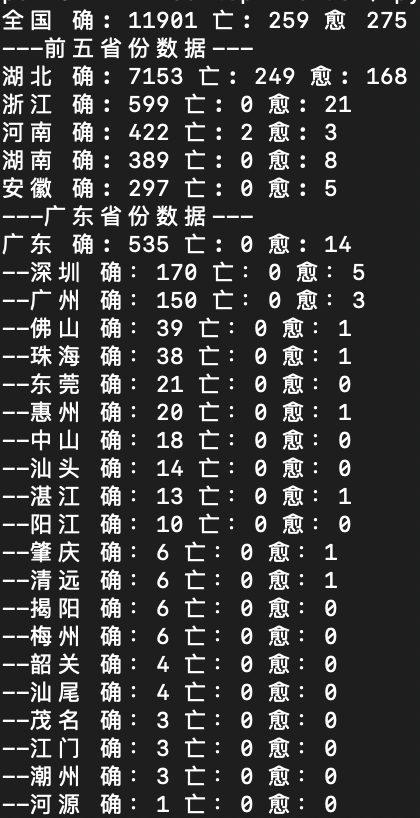
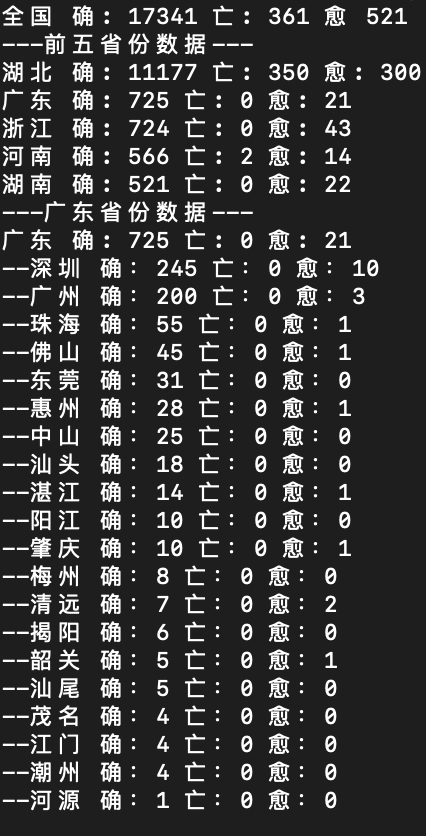
Add files via upload

Changed region(s): [[0.0, 0.0, 0.8976, 1.0], [0.8667, 0.0611, 0.9905, 0.1222], [0.8667, 0.0, 0.9905, 0.0306]]

diff --git a/wuhan.py b/wuhan.py
@@ -64,11 +64,10 @@ def main():
         for province in jsondata:
             showProvinceInfo(province)
     else:
-        for index in range(6):
+        for index in range(5):
             province = jsondata[index]
             provinceName = province.get('provinceShortName')
-            if provinceName not in additionProvinceName:
-                showProvinceInfo(province)
+            showProvinceInfo(province)
     
     print('---广东省份数据---')
 
